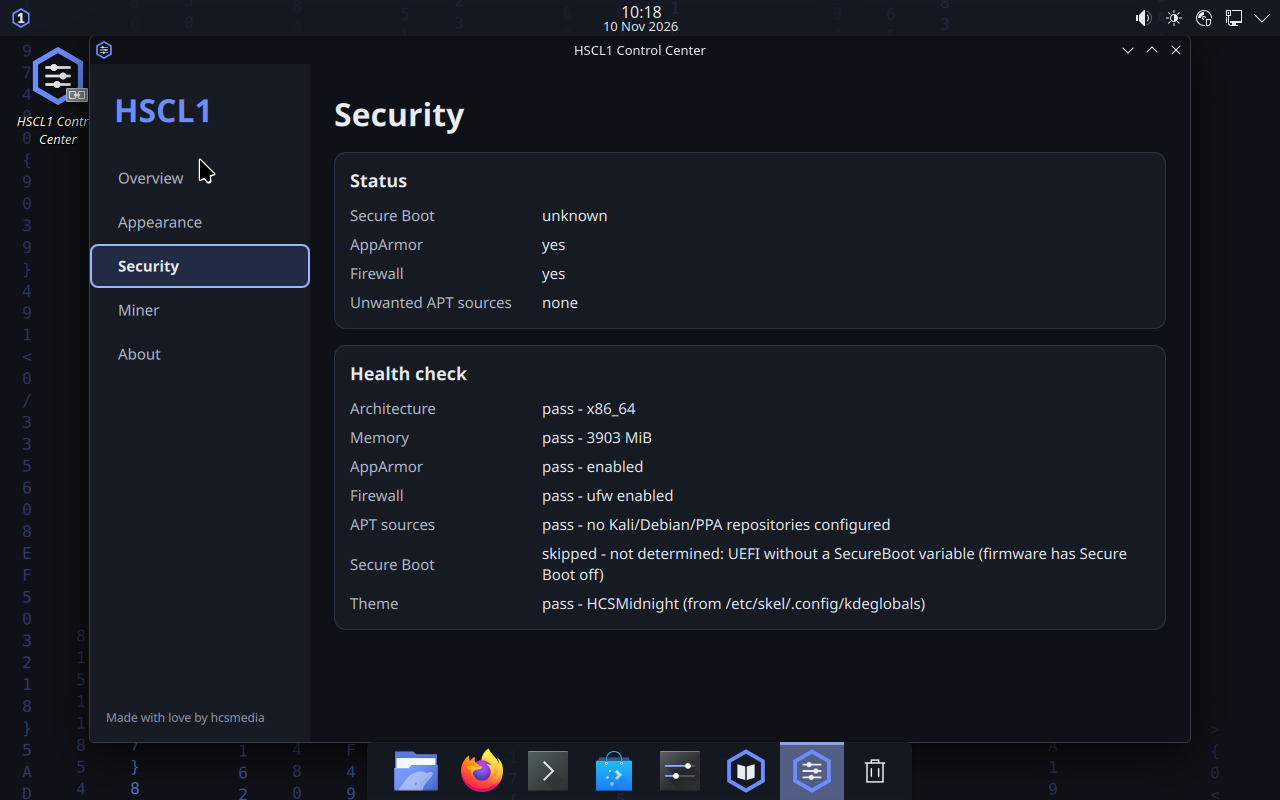
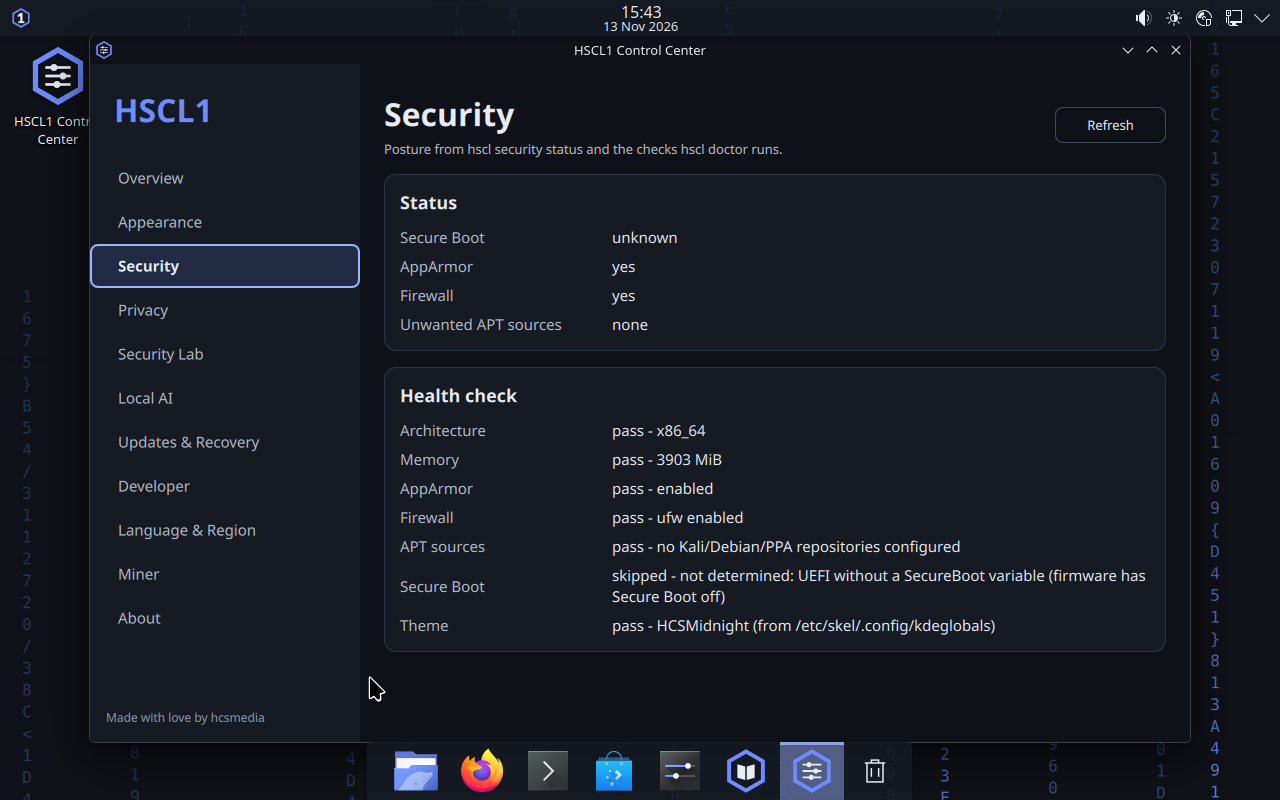
feat(showcase): rc12 guest captures replace the five-page Control Center images
Q-73: HSCL1-rc12 (sha256 e235ff29, zstd-fast) booted UEFI at 4 GB in 233 s; cc-11-pages.json captured all 11 pages with real CLI values. Showcase 04/05/06/07 replaced, 24 (privacy) and 25 (security lab) added, manifest records the rc12 sha; README table and website alt texts updated. BUILD_LOG records that the manifest says git_dirty=true because uncommitted docs were present at build start, so the artifact is proof, not a release.

diff --git a/docs/AUTONOMOUS_QUEUE.md b/docs/AUTONOMOUS_QUEUE.md
@@ -78,7 +78,7 @@ booted-artifact evidence missing).
 |---|---|---|---|
 | Q-71 | README and website contradicted the recorded evidence (installer "still killed", Security Lab "not exercised", LUKS "not tested", KDE Connect "still listening") | doc/website tests plus a manual diff against `CLAIMS.md` and Q-68/Q-66 | **DONE 2026-11-13** - README: the status block is rewritten around `0.1.8`/Q-68 and the guarded Q-66, the Security Lab section cites the rc11 chain (`Nmap 7.991`), the false "isolated network routing" phrase is gone, the TOC anchor points at a real heading, the `hscl lab run`/`hscl wallpaper apply` examples now use real required flags and a real preset id, and the verification table carries the Control Center gate. Website: EN/DE/FR reconciled (modes, limits, Secure Boot claims, LUKS moved from "not tested" to a tested row, KDE Connect limit replaced) and a new `/privacy/` page (15 pages total) states capabilities, limits and the Tails boundary; its Control Center alt text says the capture predates the new pages. Gates: `test_website.py` 15 passed, `test_doc_links.py` green. |
 | Q-70 | Control Center covered 5 areas of the specification; every page repeated its own header and had its own (or no) error path | QML gate + page/rail parity + bridge allowlist gate | **DONE 2026-11-13** - **11 pages** (Privacy, Security Lab, Local AI, Updates & Recovery, Developer, Language & Region added), one shared `HcsPage` frame (single heading, description, keyboard-reachable refresh, one labelled error banner), the bridge allowlist extended with six read-only status commands and tested against rejected setters/installers, `qml-gate.sh`: pages **16/16**, `tst_backend` **6/6**, `qmllint` **0 warnings**, EN/DE/FR complete. **Not done:** a booted-VM capture of the new pages, and display/network/user/application pages, which would need write commands (or a privileged helper) that do not exist. |
-| Q-73 | The 11-page Control Center is proven only by QML tests and mocked renders, not by a booted guest | `verify-image` + UEFI boot at 4 GB + 11 page captures from the guest | **DOING 2026-11-13** - `HSCL1-rc12-amd64.iso` builds from `e382047` with the 11-page panel; `verify-image` already passed inside the build; the UEFI boot and the `cc-11-pages.json` captures follow. |
+| Q-73 | The 11-page Control Center is proven only by QML tests and mocked renders, not by a booted guest | `verify-image` + UEFI boot at 4 GB + 11 page captures from the guest | **DONE 2026-11-13** - `HSCL1-rc12-amd64.iso` (`e235ff29…`, 5 488 771 072 B, `zstd-fast`) built from image-relevant `e382047` (manifest `git_dirty: true` because uncommitted docs were present at build start - **not** release-bound), `verify-image` all checks passed in-build; UEFI/WHPX 4 GB reached the desktop in **233 s**, QA report written, and `tests/visual/scenarios/cc-11-pages.json` captured all 11 pages with **real** CLI values (Privacy: overlay/zram active, persistent swap inactive, Tor inactive; Lab: Podman no, network none; Updates: 0 upgradable **with** stale lists, 79 days; Developer: git+python only). Showcase `04`-`07` replaced and `24`/`25` added from this artifact; manifest records the rc12 sha. |
 | Q-72 | `cargo test --all` reported one failure, then four green runs | reproduce with a saved log | **OPEN - recorded, no cause claimed** - one run on 2026-11-13 printed `275 passed; 1 failed` in the `hscl` unit binary; the immediately following full run was `276 passed; 0 failed` and four further `cargo test -p hscl --lib` runs were green. The failing test name was lost by the output filter. Next attempt: run the suite in a loop with `--no-fail-fast` and keep every log. |
 | Q-10 | Build a candidate from the fixed tree (`forge build`) and boot it UEFI | BUILD_LOG entry with source commit, ISO sha256, boot result | **VM-VERIFIED 2026-11-09** — `HSCL1-miner-qa-2026-11-09-amd64.iso` (`e342b3ae…`, source `4cc4135`) booted to the desktop in 257 s; `hscl doctor` shows `[PASS] theme HCSMidnight (from /etc/skel)`, launcher has no duplicate sections |
 | Q-11 | LUKS2 install on a disposable disk from the same candidate | installed boot + wrong/correct passphrase | **VM-VERIFIED on the current artifact 2026-11-10** - `HSCL1-installer-fix` (`3e8ebce1…`), 8 GB: ESP 300 MiB + `hscl1_boot` 4 GiB ext4 + `hscl1_root` 35.71 GiB LUKS2, "All done", wrong passphrase refused (`cryptsetup failed, bad password or options?`) and repeated, correct one boots to SDDM and the desktop, `LUKS volumes open: 1`. 6 GB panicked once - 8 GB is documented. |

diff --git a/docs/BUILD_LOG.md b/docs/BUILD_LOG.md
@@ -3792,3 +3792,43 @@ evidence extension (`.json/.png/.md/.log/.txt/.yml/.yaml/.spdx/.html`) and keeps
 **Recovery.** The verified base ISO and the 14 GB build work directory are on the WSL disk, so
 `HSCL1-rc12-amd64.iso` is building from `e382047`; its boot, QA and Control-Center evidence is captured fresh and
 recorded here.
+
+### rc12: the 11-page Control Center is verified in a booted guest (2026-11-13)
+
+Artifact: `HSCL1-rc12-amd64.iso`, 5 488 771 072 B, sha256
[1 lines of base64/hex data omitted]
+`HSCL1 0.1.8-alpha.0 amd64`. Built from a tree whose image-relevant files are exactly `7df3b68`/`e382047`
+(`git diff --name-only 7df3b68..HEAD -- apps cli distro packages themes` is empty). The manifest records
+`git_commit 20df591` and **`git_dirty: true`** because the incident docs and the cleanup guard were still
+uncommitted when the build started; none of those paths is packaged. **Consequence:** this candidate is proof,
+not a release artifact - a release build must come from a clean tree (and use xz).
+
+Build: base Kubuntu 26.04.1 SHA-256 verified against the signed `SHA256SUMS`; `verify-image.sh` inside the
+build: **all checks passed** (root ownership, os-release, handbook en/de/fr, SDDM `hscl1`, ESP/installer notes,
+KDE Connect hidden) plus the in-ISO checks (`initrd` md5 matches, `/.disk/info` starts with HSCL1).
+
+Boot: UEFI (OVMF), WHPX, **4 GB**, 1280x800, `--try-live --dismiss-welcome`, `qa_report` attached.
+`reached_desktop: true` after **233 s**, `desktop_final_wallpaper_match 0.129`, and all 12 scenario shots:
+`p01-overview` … `p11-about`, `p12-desktop` (`artifacts/boot-rc12-uefi/result.json`).
+
+Control Center, read from the guest (not mocked):
+
+| Page | Real value in the capture |
+|---|---|
+| Overview | `HSCL1 0.1.8-alpha.0 (Ubuntu 26.04 LTS base)`, kernel 7.0.0-30-generic, 3903 MiB, doctor 6 pass / 0 warn / 0 fail / 1 skip |
+| Privacy | overlay **active**, root `overlay`, zram **active**, persistent disk swap **inactive**, core dumps disabled **active**, internal disks **none**, Tor **inactive**, Tor Browser **no** |
+| Security Lab | Podman **no**, `/home/hscl1/SecurityLabs` missing, network `none`, all five toolsets listed |
+| Updates & Recovery | 0 upgradable **with** `lists stale: yes`, `lists age 79 days`, and the "run sudo apt update first" warning |
+| Developer | git **yes**, python **yes**, rust/node/compilers/containers/virt **no**, `make` missing, installed `git, python3` |
+| Language & Region | English (en), `en_US.UTF-8`, supported en/de/fr |
+
+QA report `artifacts/qa/rc12-qa.txt`: os-release (NAME/HSCL1_NAME_LONG/HSCL1_VERSION), `hscl status` with
+AppArmor yes, ufw yes, **no forbidden APT sources**, and the full `hscl doctor` JSON.
+
+Showcase and website: `04`/`05`/`06`/`07` were replaced by rc12 captures and
+`24_control_center_privacy.png` + `25_control_center_lab.png` added, all recorded in
+`docs/img/showcase/manifest.json` as `HSCL1-rc12-amd64.iso sha256 e235ff29`. The README table and the
+website alt text now show the current 11-page panel instead of the five-page one.
+
+Gates for this entry: showcase evidence + website + doc links + release metadata = **20 passed**; no source
+changed, so `forge check` and the QML gate are unchanged from `e382047` (both green there).

diff --git a/docs/PLAN_INDEX.md b/docs/PLAN_INDEX.md
@@ -1,5 +1,21 @@
 # HSCL1 plan reconciliation index
 
+## Live status, 2026-11-13 (evening): rc12 proves the 11-page Control Center in a booted guest
+
+- **`HSCL1-rc12-amd64.iso`** (`e235ff29…`, 5 488 771 072 B, zstd-fast): built from image-relevant `e382047`,
+  `verify-image` green in-build, UEFI/WHPX at **4 GB** reached the desktop in **233 s**, QA report written.
+  The manifest says `git_dirty: true` because uncommitted docs were present at build start - the image content
+  is the committed panel, but the artifact is **not** release-bound; a clean xz rebuild is required for a tag.
+- **All 11 Control Center pages captured in the guest** with real CLI values (Q-73): Privacy shows overlay and
+  zram active with persistent swap inactive and Tor inactive; Security Lab shows Podman absent and network
+  `none`; Updates shows 0 upgradable **with** stale lists (79 days) and the warning; Developer shows git+python
+  only. Showcase `04`-`07` now come from rc12 and `24`/`25` are new; the website alt text matches.
+- **Space incident (recorded):** a PowerShell 5.1 `-Include` bug emptied the local `artifacts/` tree
+  (124.1 GB) during the space cleanup; measurements survive in BUILD_LOG, raw files do not, and
+  `docs/CLAIMS.md` / `KNOWN_LIMITATIONS.md` now mark every `artifacts/` path as historical. The guard is
+  `scripts/dev/cleanup-artifacts.ps1` (dry run, evidence protected) with 5 tests.
+- **Next VM step:** installer + install-to-disk on this artifact, then the installed boot.
+
 ## Live status, 2026-11-13: Control Center at 11 pages, README and website reconciled to the evidence
 
 - **Control Center:** the panel went from 5 to **11 read-only pages** (Privacy, Security Lab, Local AI, Updates &

diff --git a/README.md b/README.md
@@ -110,6 +110,10 @@ A zero-telemetry control center providing instant hardware diagnostics, security
 | ![Control Center Overview](docs/img/showcase/04_control_center_overview.png) | ![Control Center Security](docs/img/showcase/06_control_center_security.png) |
 | **Appearance & Desktop Design Tokens** | **System Attestation & Versioning** |
 | ![Control Center Appearance](docs/img/showcase/05_control_center_appearance.png) | ![Control Center About](docs/img/showcase/07_control_center_about.png) |
+| **Privacy Session Facts** | **Security Lab Boundaries** |
+| ![Control Center Privacy](docs/img/showcase/24_control_center_privacy.png) | ![Control Center Security Lab](docs/img/showcase/25_control_center_lab.png) |
+
+All six captures come from `HSCL1-rc12` (UEFI, 4 GB) and show the 11-page rail with **live** values - the Privacy page reads `ephemeral overlay: active`, `zram: active`, `persistent disk swap: inactive`, and the Security Lab page reads `podman installed: no` because the lab is off by default.
 
 ---
 
